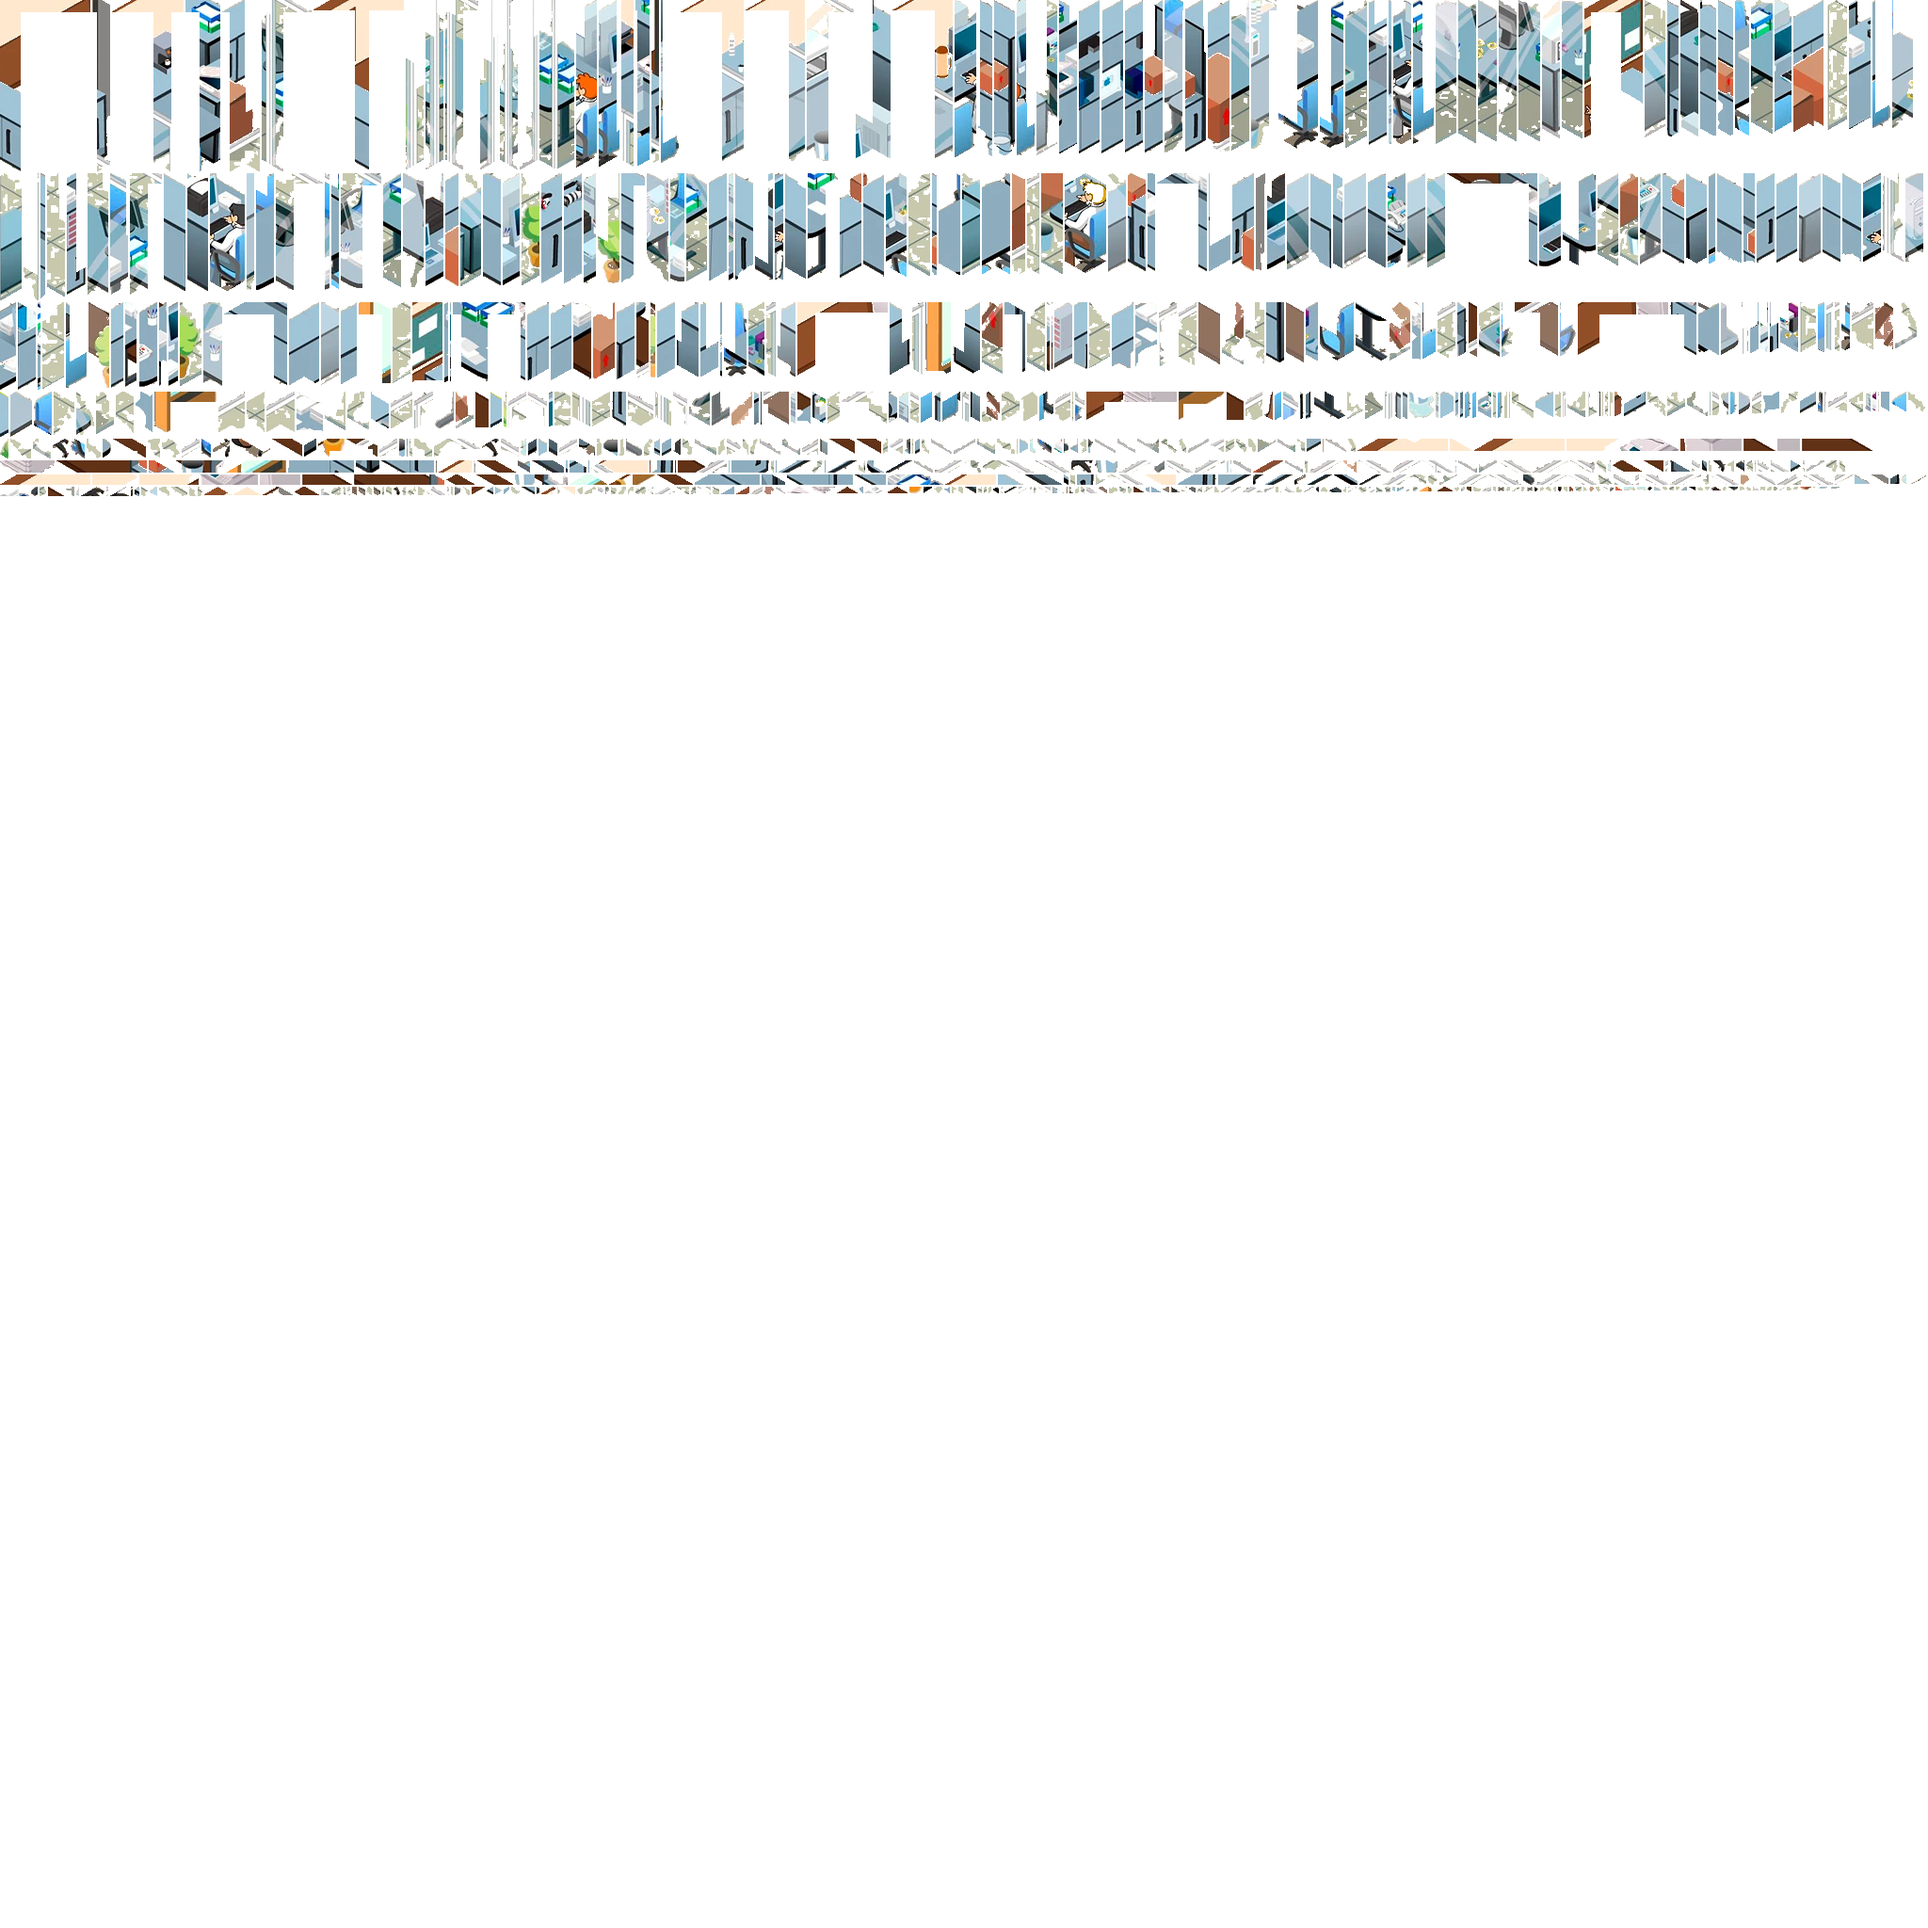
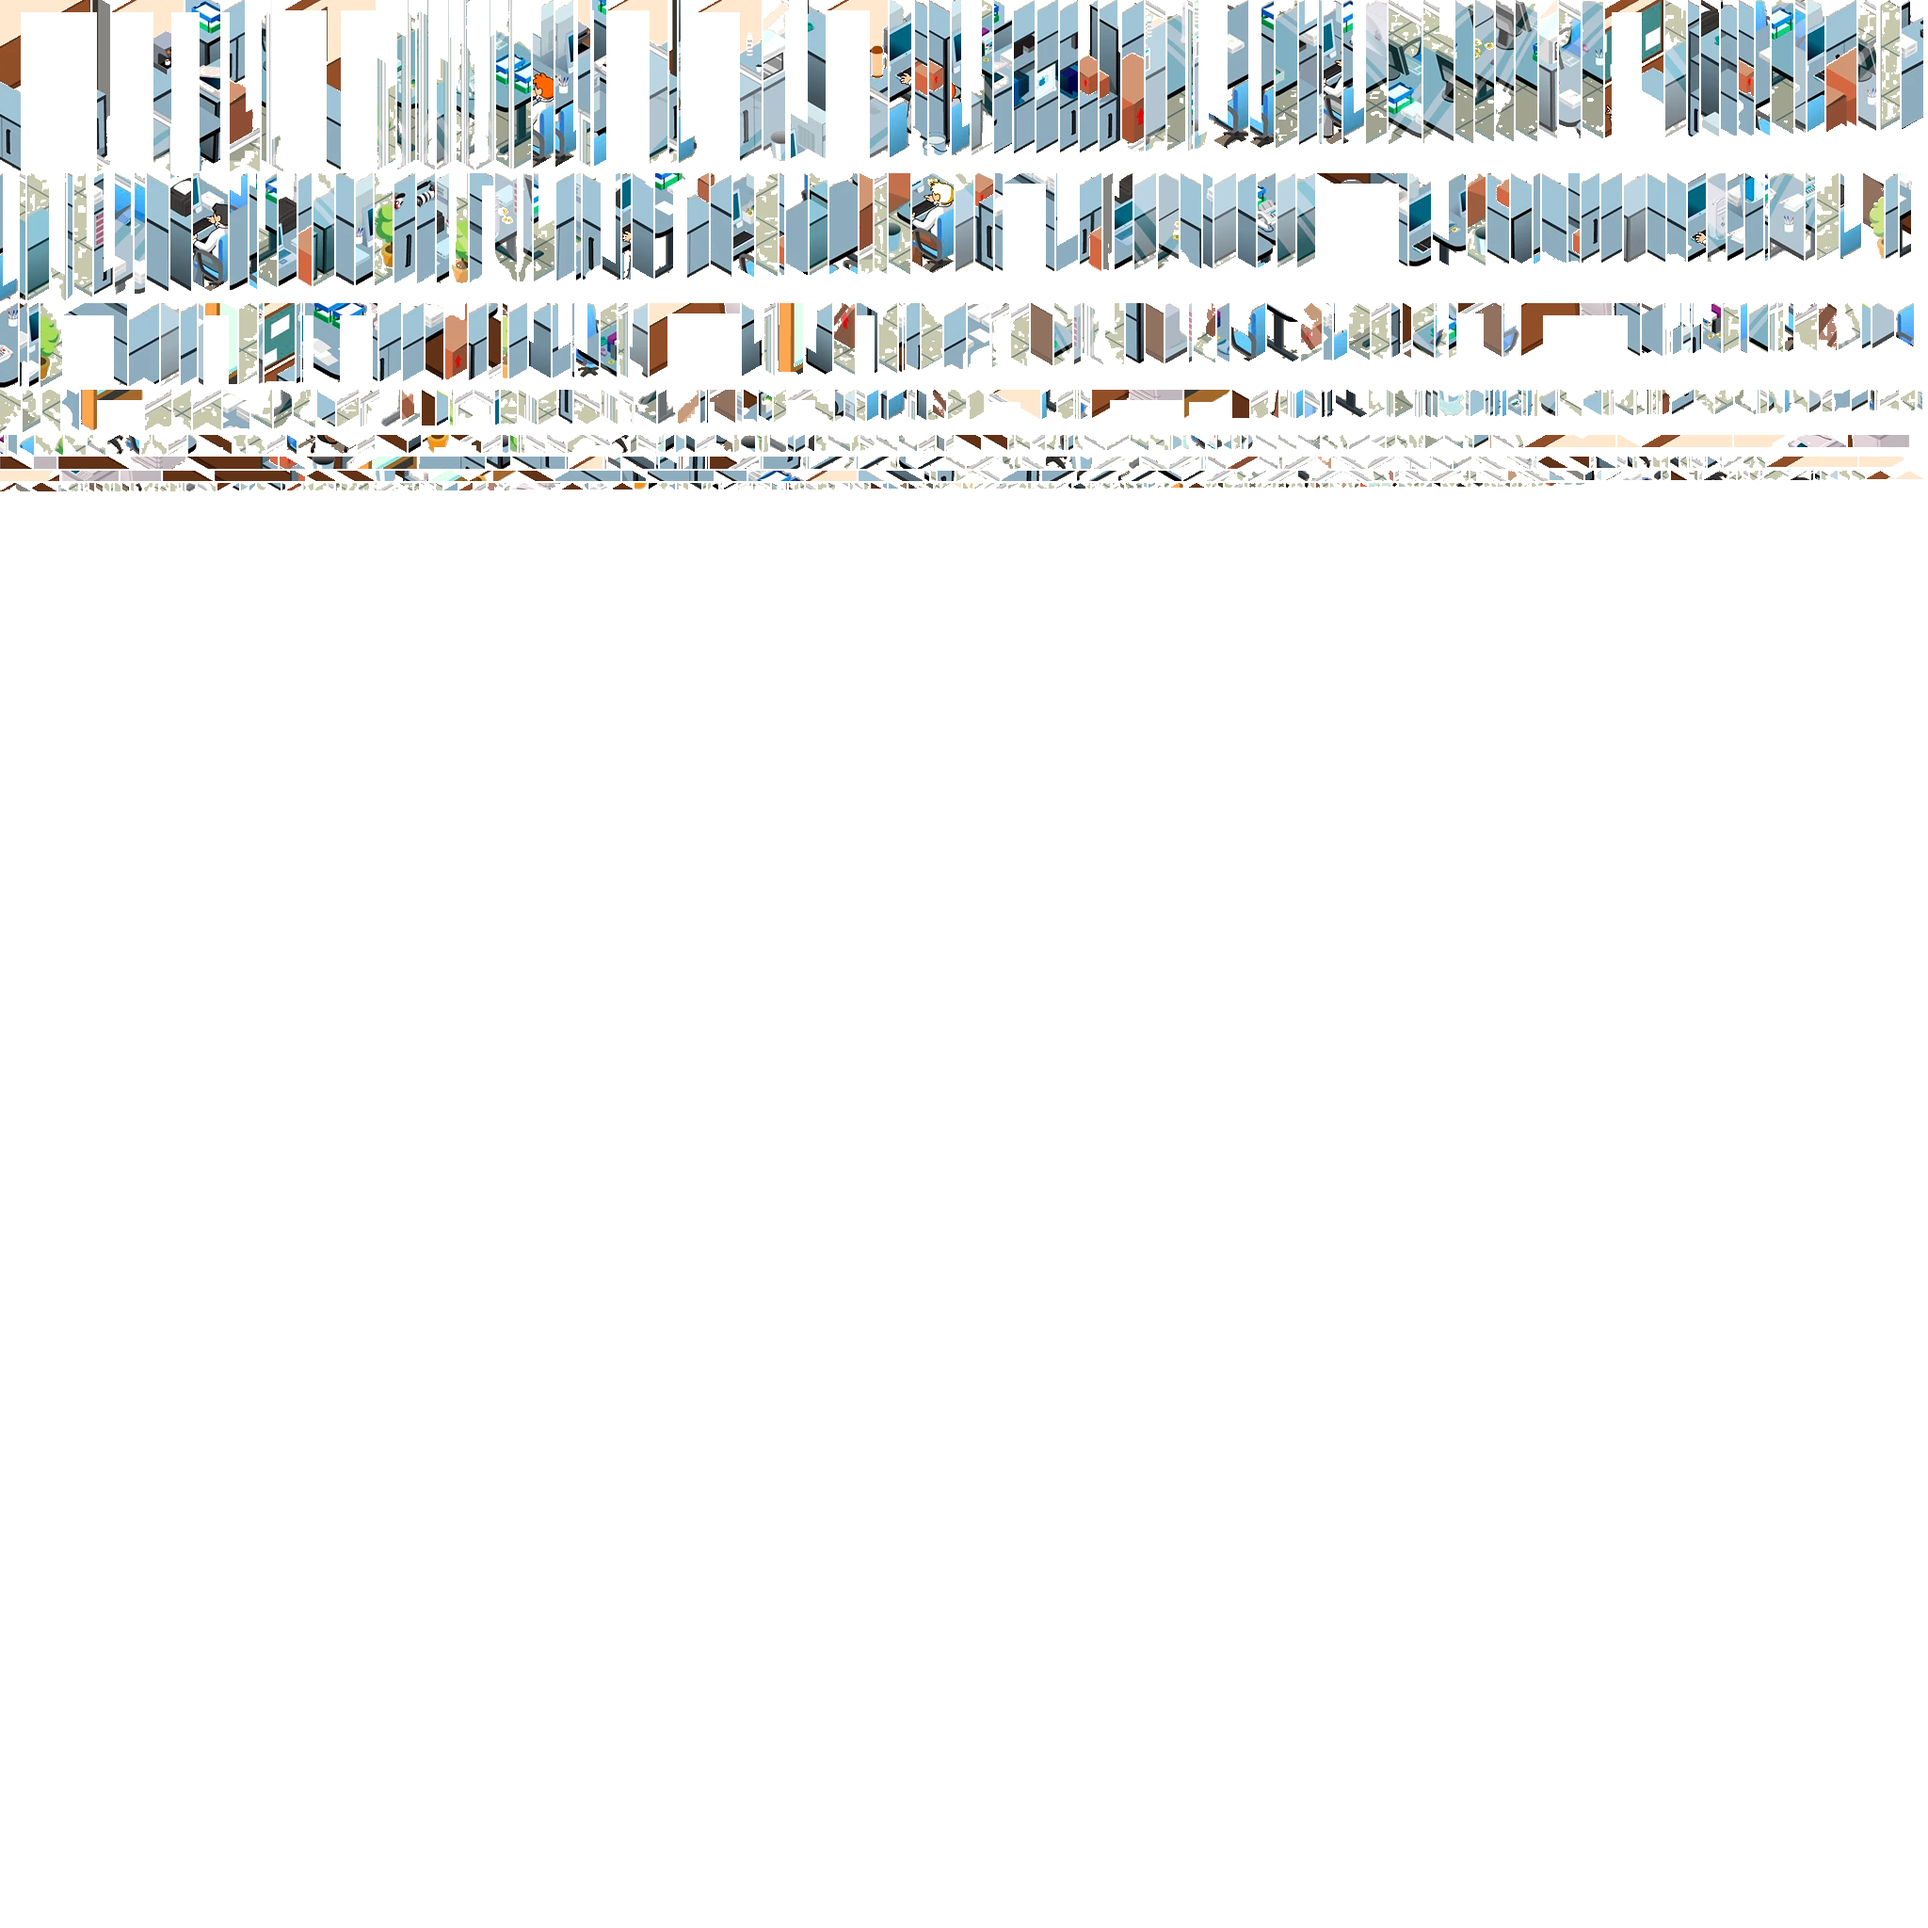
Passagens mais largas

Changed region(s): [[0.0, 0.0, 1.0, 0.2812]]

diff --git a/src/Collision.js b/src/Collision.js
@@ -26,7 +26,7 @@ export class Collision {
   }
 
   // Testa a pegada do cadeirante (4 cantos). Retorna { wall, boxes }
-  probe(U, V, r = 12) {
+  probe(U, V, r = 7) {
     const out = { wall: false, boxes: new Set() }
     for (const [dU, dV] of [[-r, -r], [r, -r], [-r, r], [r, r]]) {
       const [i, j] = this.cell(U + dU, V + dV)

diff --git a/tools/build_scene.py b/tools/build_scene.py
@@ -52,7 +52,7 @@ for path in FORCE_FREE:
             ci_, cj_ = cell_of(*uv(x1+(x2-x1)*t, y1+(y2-y1)*t))
             blocked[max(ci_-1, 0):ci_+2, max(cj_-1, 0):cj_+2] = False
 ring = np.zeros_like(blocked); ring[0, :] = ring[-1, :] = ring[:, 0] = ring[:, -1] = True
-ring[-2, :] = ring[:, -2] = True         # margem junto ao vidro
+# (margem extra junto ao vidro removida: corredores mais largos)
 blocked |= ring
 
 npc_cells = np.zeros_like(blocked)
